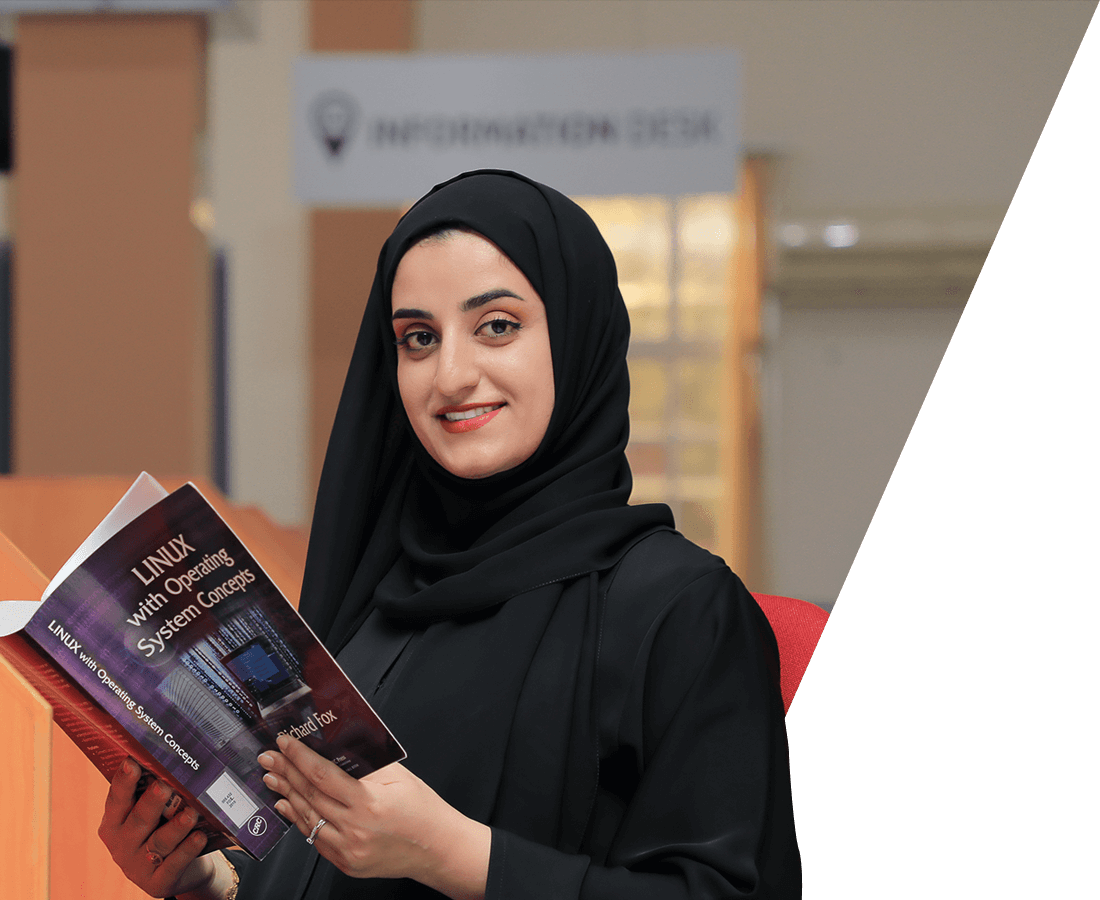
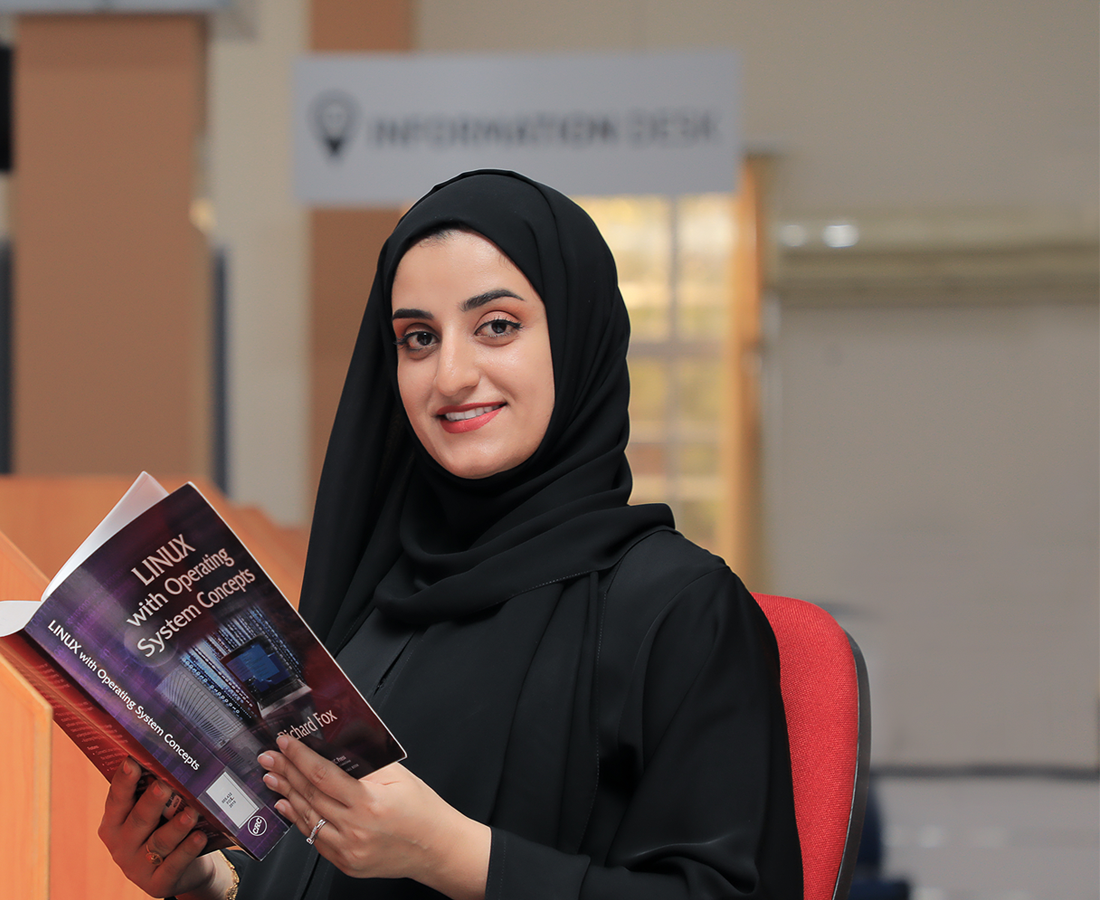
contact us page update

Changed region(s): [[0.7109, 0.0, 1.0, 1.0]]

diff --git a/pages/components/sliders/ContactSlider.js b/pages/components/sliders/ContactSlider.js
@@ -13,12 +13,17 @@ export default function ContactSlider() {
         <div className="sec-con-cover">
           <Container fluid className="px-0">
             <Row className="gx-0">
-              <Col className="col-12 col-xl-7 px-0">
+              <Col className="col-12 col-md-6 col-xl-7 px-0">
                 <div className="con-addr-img">
                   <img src="images/con-address-img.png" alt="Image" />
+                  <div class="achieve-img-shape">
+                    <svg height="0" width="0">
+                      <defs></defs>
+                    </svg>
+                  </div>
                 </div>
               </Col>
-              <Col className="col-12 col-xl-5 px-0">
+              <Col className="col-12 col-md-6 col-xl-5 px-0">
                 <div className="con-addr-con">
                   <div className="con-addr-hd">
                     <h3>Get In Touch</h3>

diff --git a/styles/scss/breakpoints/breakpoints.scss b/styles/scss/breakpoints/breakpoints.scss
@@ -401,6 +401,10 @@
 }
 
 @media (max-width: 1280px) {
+  .tool-nav .nav-item .nav-link {
+    width: 75px;
+    height: 75px;
+  }
   .slider-nav {
     height: 75px;
   }
@@ -417,9 +421,16 @@
   }
   .slider-cover {
     height: calc(100vh - 75px);
+    padding-right: 75px;
+  }
+  .slider-cover::after {
+    width: 75px;
   }
   .slider-caption {
     transform: translate(50px, -50%);
+  }
+  .slider-cover .slick-arrow {
+    right: -4rem;
   }
   .pgm-modal {
     height: calc(100% - 75px);
@@ -436,9 +447,12 @@
     max-width: 50%;
   }
   .campus-intro .cam-intro-scroll {
-    height: 250px;
+    height: 350px;
     padding-right: 1rem;
     overflow: auto;
+    ::-webkit-scrollbar-thumb {
+      background-color: var(--white);
+    }
   }
 }
 

diff --git a/styles/scss/layout/_contact.scss b/styles/scss/layout/_contact.scss
@@ -57,8 +57,22 @@
 }
 
 .con-addr-img {
+  position: relative;
+  height: 100%;
   img {
     width: 100%;
+    height: 100%;
+    object-fit: cover;
+  }
+  .achieve-img-shape {
+    position: absolute;
+    right: -1px;
+    top: 0;
+    width: 150px;
+    height: 100%;
+    background-color: var(--color-100);
+    clip-path: polygon(100% 0, 65% 100%, 100% 100%) !important;
+    clip-path: url("#con-img-shape");
   }
 }
 
@@ -136,6 +150,7 @@
   .map-info-item {
     flex: 1 1 auto;
     display: flex;
+    padding: 0.25rem;
     margin-bottom: 0.5rem;
     .map-info-icon {
       display: flex;
